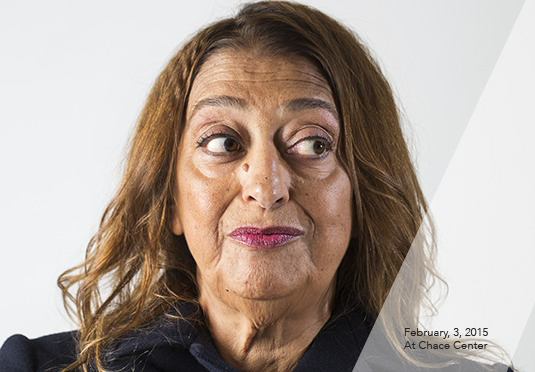
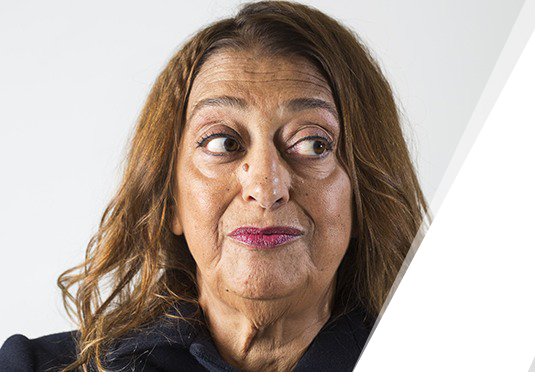
change

Changed region(s): [[0.6579, 0.5914, 1.0, 1.0]]

diff --git a/eunsu/Projects/Project3/sharedvoice.html b/eunsu/Projects/Project3/sharedvoice.html
@@ -64,7 +64,7 @@
 
 	}
 	#section4{
-		background-image: url(images/dieter.jpg);
+		background-image: url(images/dieter1.jpg);
 		background-size: 100% 100%;
 
 	}
@@ -161,6 +161,22 @@
 	#section2 h1{
 		color: #333;
 	}
+
+	.datebox1 p{
+    font-size: 20px;
+    color: black;
+
+	}
+	.datebox2 p{
+    font-size: 20px;
+    color: black;
+
+	}	
+	.datebox3 p{
+    font-size: 20px;
+    color: black;
+
+	}	
 	
 	@media only screen and (max-width: 500px) {
     
@@ -185,6 +201,31 @@
     	right:25%;
     	background-color: #FB7200;
     }
+
+    .panel_2{ 
+    	width: 80%;
+    	height: 80%;
+    	position: relative;
+    	right:25%;
+    	background-color: #FB7200;
+    }
+
+    .panel_3{ 
+    	width: 80%;
+    	height: 80%;
+    	position: relative;
+    	right:25%;
+    	background-color: #FB7200;
+    }
+
+    .panel_4{ 
+    	width: 80%;
+    	height: 80%;
+    	position: relative;
+    	right:25%;
+    	background-color: #FB7200;
+    }
+
     .firstbody{
     	width: 70%;
     	height: 40%;
@@ -201,6 +242,37 @@
     	margin-top: 25%;
 
     }
+    .datebox1{
+    	width: 23%;
+    	height:7%;
+    	position: absolute;
+    	margin-top: -11.5%;
+    	background: gray;
+    	
+    	opacity: 1;
+	}
+
+	.datebox2{
+    	width: 23%;
+    	height:7%;
+    	position: absolute;
+    	margin-top: -10.5%;
+    	background: gray;
+    	
+    	opacity: 1;
+	}
+
+	.datebox3{
+    	width: 23%;
+    	height:7%;
+    	position: absolute;
+    	margin-top: -11.5%;
+    	background: gray;
+    	
+    	opacity: 1;
+	}
+
+
     .pull-me_2{
     	width: 30%;
     	height: 30%;
@@ -214,7 +286,23 @@
     	position: relative;
     	margin-top: 35%
 
-    }     
+    } 
+
+    .datebox1 p{
+    font-size: 10px;
+    color: black;
+
+	}    
+    .datebox2 p{
+    font-size: 10px;
+    color: black;
+
+	}  	
+    .datebox3 p{
+    font-size: 10px;
+    color: black;
+
+	}	
 
     .menuitem {
         margin: 1.0121457489878542510121457489879%;
@@ -306,19 +394,25 @@
 
 	<div class="section" id="section4">
 		<div class="intro">
- 
+
 				<div>
 					<img src="images/dieterrams.png"/class="pull-me_1">
 
 				</div>
 			
-			<div class="panel_1">
+			<div class="panel_2">
 				<br></br>
 				<p> (born 20 May 1932 in Wiesbaden, Hessen) is a German industrial designer closely associated with the consumer products company Braun and the Functionalist school of industrial design. His unobtrusive approach and belief in "less but better" design generated a timelessness nature in his products and have influenced the design of many products, which also secured Rams worldwide recognition and appreciation.</p>
 				<br></br>
 			</div>
+			
+
 
 		</div>
+		<div class="datebox1">
+				<p>Feb 1, 2015,</p>
+				<p>At Chace Center</p>
+			</div>
 	</div>
 
 	<div class="section" id="section3">
@@ -384,13 +478,18 @@
 				<img src="images/michaelintro.png"/class="pull-me_2">
 
 			</div>
-			<div class="panel_1">
+			<div class="panel_3">
 				<br></br>
 				<p>Bierut was vice president of graphic design at Vignelli Associates. Since 1990 he has been a partner in the New York office of Pentagram. According to his Pentagram online biography: Bierut "is responsible for leading a team of graphic designers who create identity design, environmental graphic design and editorial design solutions.</p>
 				<br></br>
 			</div>
 
+
 		</div>
+		<div class="datebox2">
+				<p>Feb 2, 2015,</p>
+				<p>At Chace Center</p>
+			</div>		
 		</div>
 
 		<div class="section" id="section3">
@@ -452,13 +551,17 @@
 				<img src="images/zahahadid.png"/class="pull-me_3">
 
 			</div>
-			<div class="panel_1">
+			<div class="panel_4">
 				<br></br>
 				<p> She received the Pritzker Architecture Prize in 2004 the first woman to do so and the Stirling Prize in 2010 and 2011.Her buildings are distinctively neofuturistic, characterised by the powerful, curving forms of her elongated structures with "multiple perspective points and fragmented geometry to evoke the chaos of modern life". She is currently professor at the University of Applied Arts Vienna in Austria.</p>
 				<br></br>
 			</div>
 
 		</div>
+		<div class="datebox3">
+				<p>Feb 3, 2015,</p>
+				<p>At Chace Center</p>
+			</div>		
 	</div>
 
 	<div class="section" id="section3">
@@ -480,6 +583,9 @@
 								  <p>by Zaha Hadid</p><br></br>
 				</div>				  
 			</div>
+			<div class="gototop">
+				<p><a href="http://risdweb15-02.github.io/webdesign/eunsu/Projects/Project3/sharedvoice.html">Back to the Top</p>
+			</div>	
 		</div>
 
 	    <div class="slide" id="slide12" data-anchor="slide12">

diff --git a/eunsu/Projects/Project3/css/fullPage.css b/eunsu/Projects/Project3/css/fullPage.css
@@ -25,8 +25,8 @@ html, body {
 
 .shared{
    
-   margin-left: 45%;
-   margin-top: 1%;
+   margin-left: 41%;
+   margin-top: 0%;
    display: block;
    border: 5px solid #EEEEEE;
    background-color: none;
@@ -68,7 +68,15 @@ html, body {
     cursor:pointer;
     position: relative;
     margin-top: 3%;
+    transition-duration:2s;
+    -webkit-transition-duration:2s;
 
+}
+
+.pull-me_2:hover{
+    tranform: tranlateY(100%);
+    -ms-transform:translateY(100%); /* prefix for IE 9 */
+    -webkit-transform:translateY(100%); /* prefix for Safari and Chrome */
 
 }
 
@@ -77,9 +85,18 @@ html, body {
     cursor:pointer;
     position: relative;
     margin-top: 15%;
-
+    transition-duration:2s;
+    -webkit-transition-duration:2s;
 
 }
+
+.pull-me_3:hover{
+    tranform: tranlateY(100%);
+    -ms-transform:translateY(100%); /* prefix for IE 9 */
+    -webkit-transform:translateY(100%); /* prefix for Safari and Chrome */
+
+}
+
 .panel{
     background-color: gray;
     width:18%;
@@ -93,6 +110,7 @@ html, body {
 }
 .panel_1{
     background-color: gray;
+    opacity: 1;
     width:30%;
     height: 20%;
     position: relative;
@@ -103,6 +121,82 @@ html, body {
 
     
 }
+
+.panel_2{
+    background-color: gray;
+    opacity: 1;
+    width:30%;
+    height: 20%;
+    position: relative;
+    margin-left: 35%;
+    display: none;
+    font-size: 10px;
+    font-family: Avenir;
+
+    
+}
+
+.panel_3{
+    background-color: gray;
+    opacity: 1;
+    width:30%;
+    height: 20%;
+    position: relative;
+    margin-left: 35%;
+    display: none;
+    font-size: 10px;
+    font-family: Avenir;
+
+    
+}
+
+.panel_4{
+    background-color: gray;
+    opacity: 1;
+    width:30%;
+    height: 20%;
+    position: relative;
+    margin-left: 35%;
+    display: none;
+    font-size: 10px;
+    font-family: Avenir;
+
+    
+}
+
+
+.datebox1{
+    width: 20%;
+    height: 12%;
+    background-color: white;
+    opacity: 0.4;
+    position: absolute;
+    padding-top: 2%;
+    margin-top: -9%;
+}
+
+.datebox2{
+    width: 20%;
+    height: 12%;
+    background-color: white;
+    opacity: 0.4;
+    position: absolute;
+    padding-top: 2%;
+    margin-top: -9%;
+}
+
+.datebox3{
+    width: 20%;
+    height: 12%;
+    background-color: white;
+    opacity: 0.4;
+    position: absolute;
+    padding-top: 2%;
+    margin-top: -9%;
+}
+
+
+
 
 .firstbody{
     width: 60%;
@@ -187,6 +281,21 @@ html, body {
     background-color: white;
 
 }
+
+.gototop{
+    width: 5%;
+    margin-left: 15%;
+    margin-top: 2%;
+    
+    position: absolute;
+    height: 7%;
+    background: gray;
+    opacity: 0.7;
+    font-family: Avenir, Helvetica;
+    
+
+}
+
 
 
 
@@ -357,3 +466,5 @@ html, body {
 #fp-nav ul li .fp-tooltip.left {
     left: 20px;
 }
+
+

diff --git a/eunsu/Projects/Project3/js/examples.js b/eunsu/Projects/Project3/js/examples.js
@@ -13,13 +13,13 @@ $(document).ready(function(){
     });
     
     $('.pull-me_1').click(function(){
-        $('.panel_1').slideToggle('slow');
+        $('.panel_2').slideToggle('slow');
     });    
     $('.pull-me_2').click(function(){
-        $('.panel_1').slideToggle('slow');
+        $('.panel_3').slideToggle('slow');
     });     
     $('.pull-me_3').click(function(){
-        $('.panel_1').slideToggle('slow');
+        $('.panel_4').slideToggle('slow');
     });      
 	$('.putover').click(function(){  
 	   	$('.putover').css('opacity',1);
